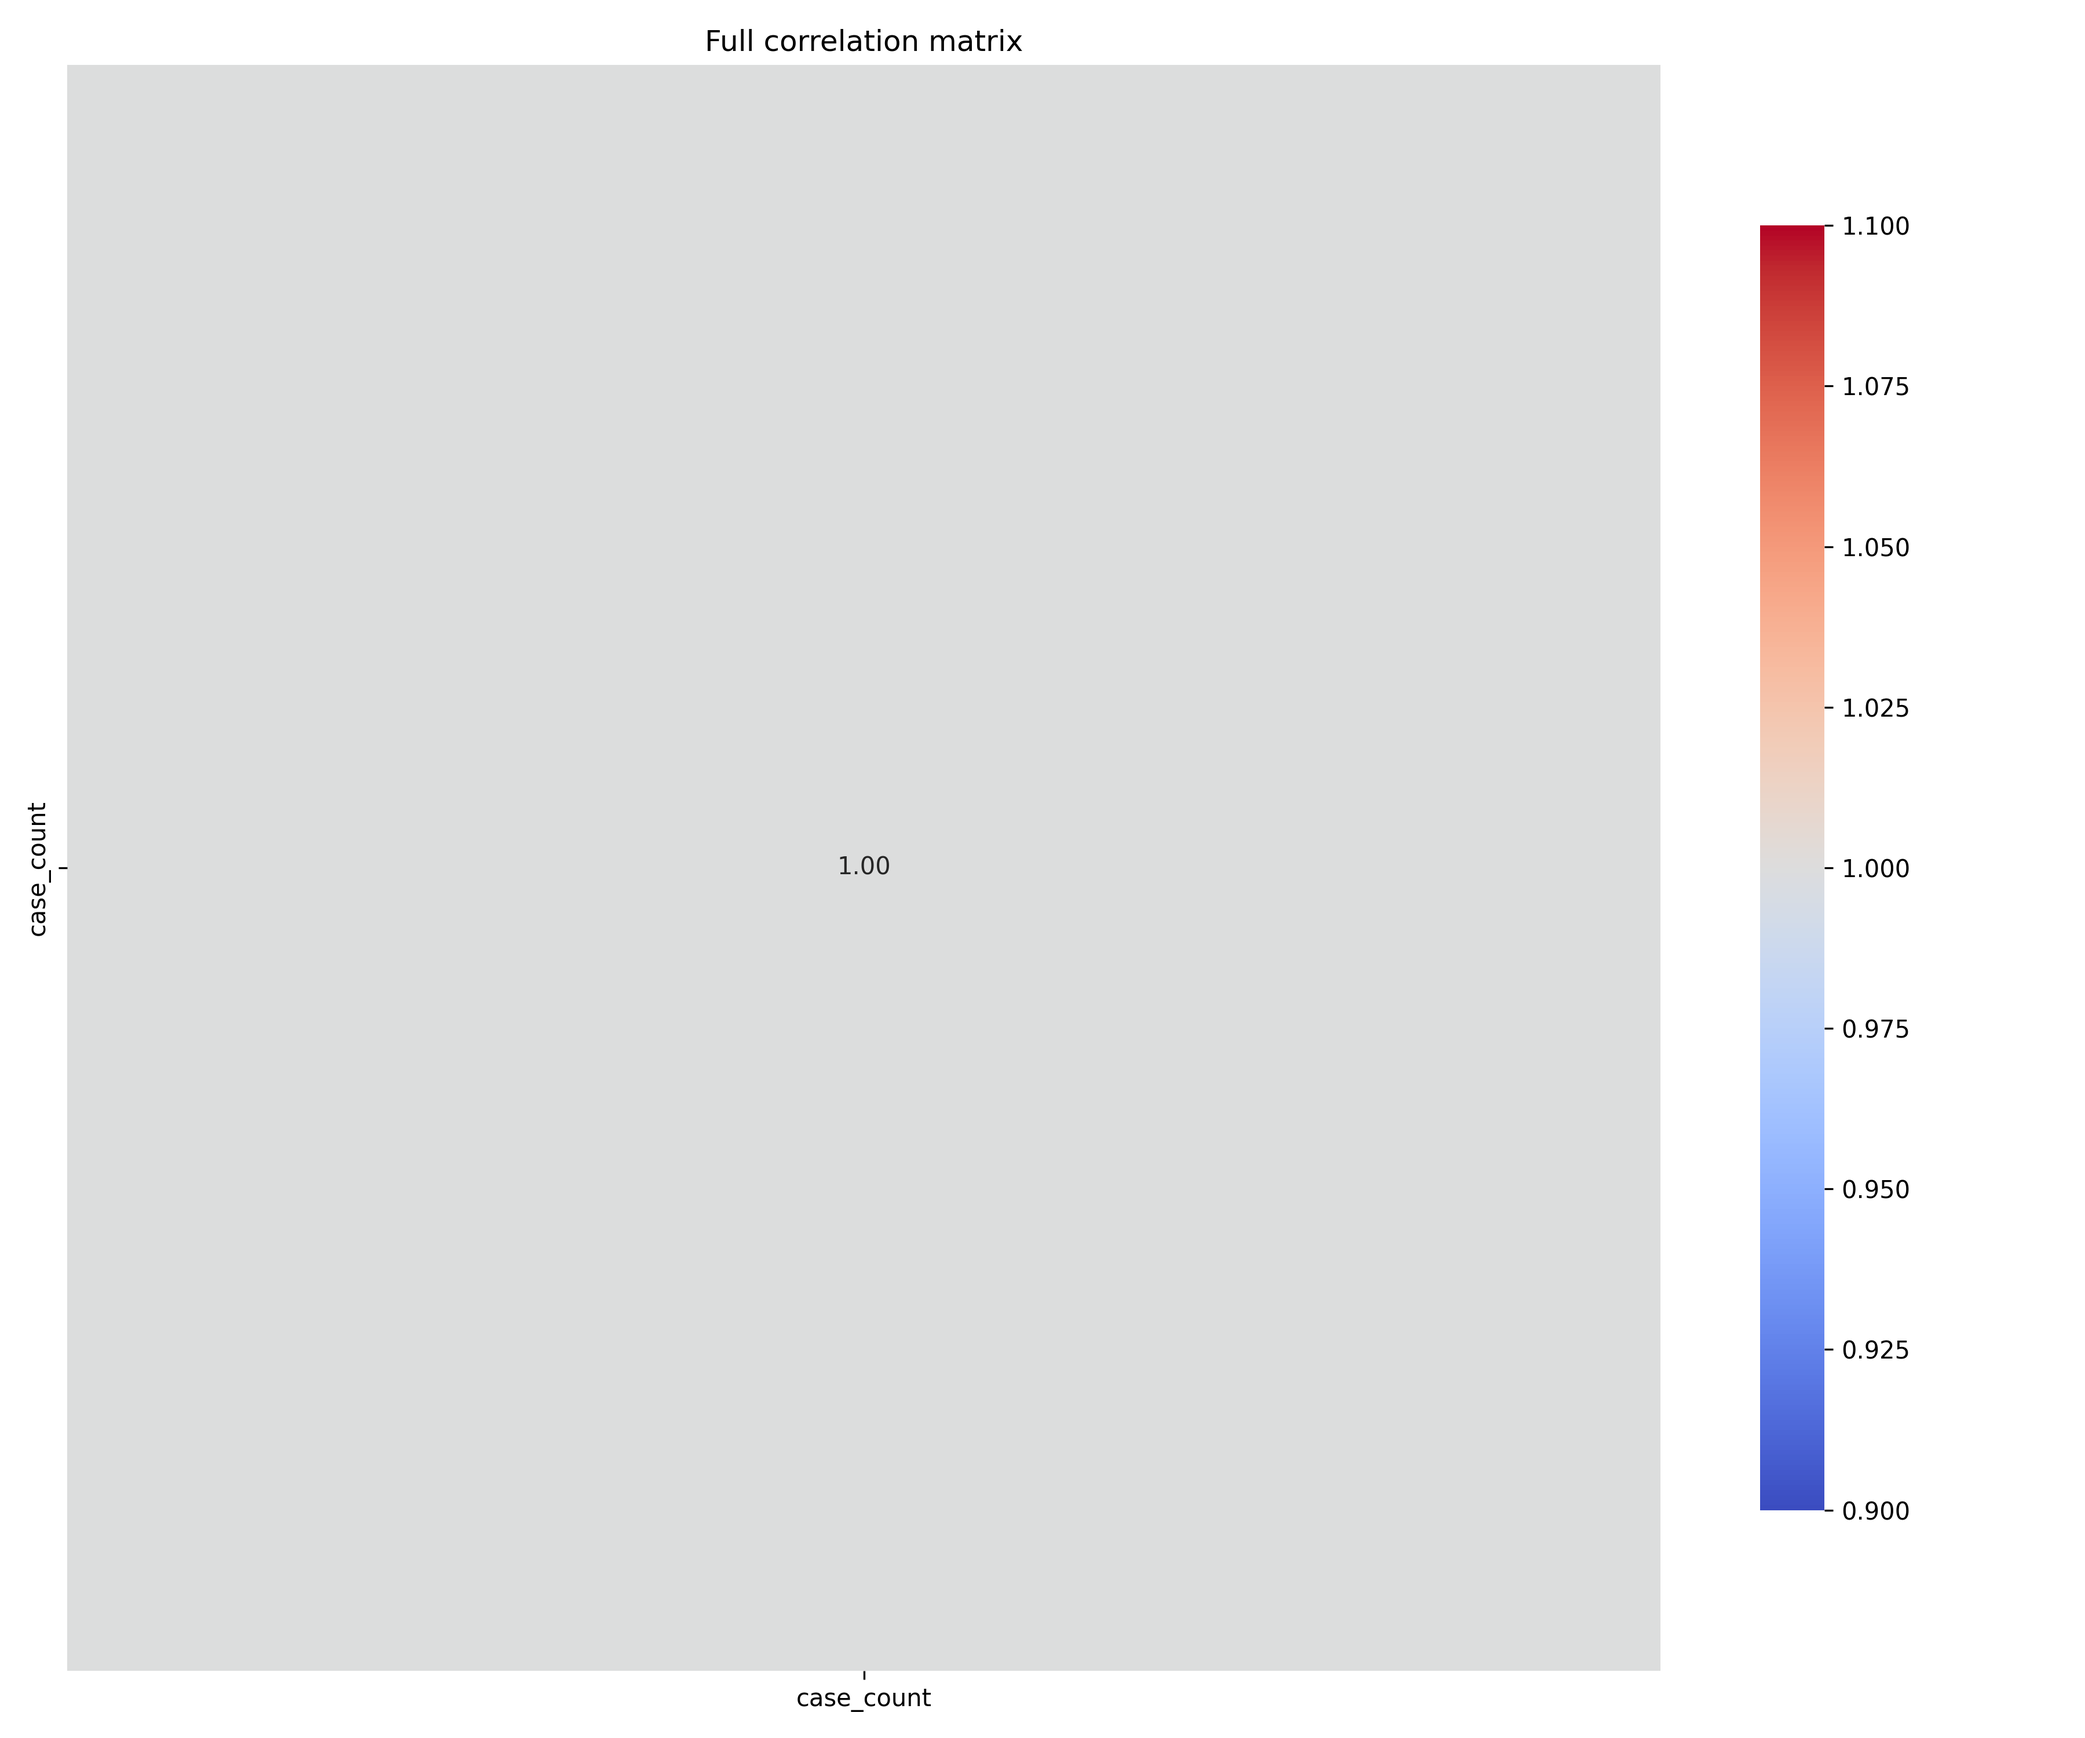
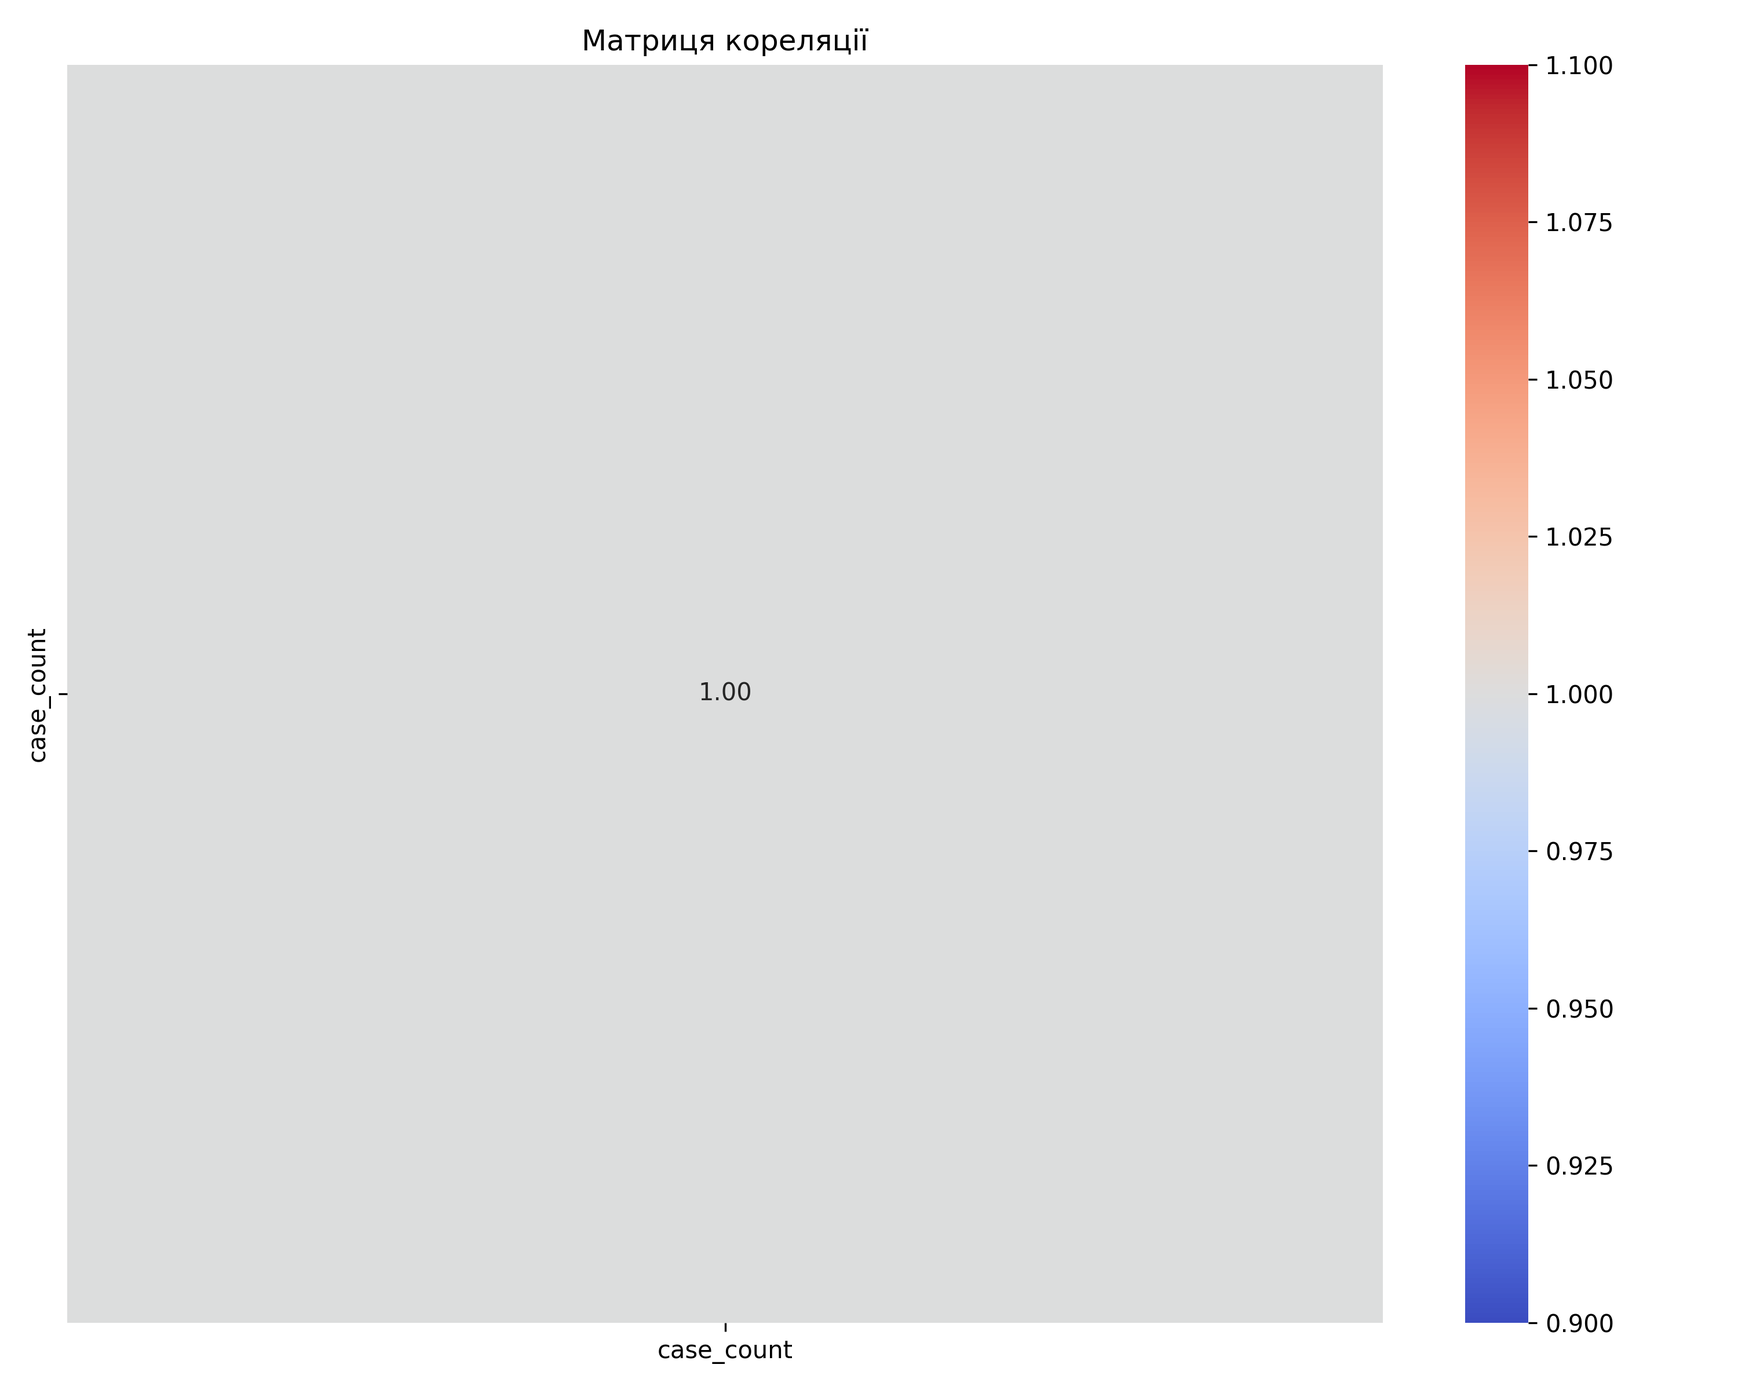
Use full-matrix heatmap per user example; print head and numeric columns

Changed region(s): [[0.0, 0.0, 0.806, 1.0], [0.837, 0.0312, 0.93, 0.9688], [0.403, 0.4688, 0.434, 0.5]]

diff --git a/plot_heatmap.py b/plot_heatmap.py
@@ -4,81 +4,40 @@ import seaborn as sns
 import matplotlib.pyplot as plt
 from pathlib import Path
 
-# Вкажіть тут свої "сміттєві" колонки, які потрібно видалити перед аналізом
-GARBAGE_COLS = ['date', 'city_name', 'id_patient']
-THRESHOLD = 0.95
-
+# Відформатовано згідно вашого прикладу: вивід head, вибір числових колонок, повна матриця
 data_path = Path('final_data.csv')
 if not data_path.exists():
     raise FileNotFoundError('final_data.csv not found. Please provide the dataset in the repository root.')
 
 df = pd.read_csv(data_path)
 
-# Видаляємо вказані сміттєві колонки, якщо вони є
+# Видаляємо можливі "сміттєві" колонки
+GARBAGE_COLS = ['date', 'city_name', 'id_patient']
 cols_to_drop = [c for c in GARBAGE_COLS if c in df.columns]
 if cols_to_drop:
     df = df.drop(columns=cols_to_drop)
 
-# Залишаємо тільки числові колонки
-df_num = df.select_dtypes(include=[np.number])
-if df_num.shape[1] == 0:
-    raise ValueError('No numeric columns found in final_data.csv to compute correlation.')
+# 1. Переконаємося, що df містить дані
+print('Перші 5 рядків датасету:')
+print(df.head().to_string())
 
-# Обчислюємо матрицю кореляції
-corr = df_num.corr()
+# 2. Вибираємо тільки числові колонки
+numeric_df = df.select_dtypes(include=['float64', 'int64'])
 
-# Шукаємо пари колонок з |corr| >= THRESHOLD (без діагоналі)
-corr_abs = corr.abs()
-pairs = []
-cols_in_pairs = set()
-for i in range(len(corr.columns)):
-    for j in range(i + 1, len(corr.columns)):
-        if corr_abs.iat[i, j] >= THRESHOLD:
-            a = corr.columns[i]
-            b = corr.columns[j]
-            pairs.append((a, b, corr.iat[i, j]))
-            cols_in_pairs.update([a, b])
+# 3. Перевірка колонок
+print('Колонки, які будуть на графіку:', list(numeric_df.columns))
 
+# 4. Матриця кореляції для всіх числових колонок
+correlation_matrix = numeric_df.corr()
+
+# 5. Малюємо та зберігаємо повну матрицю
 plt.figure(figsize=(10, 8))
-if len(cols_in_pairs) >= 2:
-    filtered_corr = corr.loc[sorted(cols_in_pairs), sorted(cols_in_pairs)]
-    sns.heatmap(filtered_corr, annot=True, cmap='coolwarm', fmt='.2f', square=True, cbar_kws={'shrink': 0.8})
-    plt.title(f'Correlation heatmap (pairs with |corr| >= {THRESHOLD})')
-elif len(cols_in_pairs) == 1:
-    # Якщо лише одна колонка входить у сильні пари — додатково візьмемо її
-    # топ-N колонок за модулем кореляції, щоб уникнути одиночної точки 1.0
-    target = list(cols_in_pairs)[0]
-    SECONDARY = 0.5
-    # Вибираємо колонки з |corr| >= SECONDARY або топ-3 за модулем
-    others = corr_abs[target].drop(target)
-    selected = list(others[others >= SECONDARY].index)
-    if len(selected) < 1:
-        selected = list(others.abs().sort_values(ascending=False).head(3).index)
-    selected = sorted(set([target] + selected))
-    filtered_corr = corr.loc[selected, selected]
-    sns.heatmap(filtered_corr, annot=True, cmap='coolwarm', fmt='.2f', square=True, cbar_kws={'shrink': 0.8})
-    plt.title(f'Correlation heatmap for {target} (expanded selection)')
-else:
-    # Якщо сильних пар немає — показуємо повну матрицю,
-    # але замаскуємо значення з модулем меншим за поріг і не підписуватимемо їх.
-    mask = corr_abs < THRESHOLD
-    annot = corr.round(2).astype(str)
-    annot = annot.where(~mask, other='')
-    sns.heatmap(corr, annot=annot, cmap='coolwarm', fmt='', square=True, cbar_kws={'shrink': 0.8}, mask=mask)
-    plt.title(f'Correlation heatmap (values with |corr| < {THRESHOLD} hidden)')
+sns.heatmap(correlation_matrix, annot=True, cmap='coolwarm', fmt=".2f")
+plt.title('Матриця кореляції')
 plt.tight_layout()
 
 out_dir = Path('outputs')
 out_dir.mkdir(exist_ok=True)
-out = out_dir / 'correlation_heatmap.png'
-plt.savefig(out, dpi=300)
-print(f'Heatmap saved: {out.resolve()}')
-
-# Зберігаємо також повну матрицю кореляцій без маскування
-plt.figure(figsize=(12, 10))
-sns.heatmap(corr, annot=True, cmap='coolwarm', fmt='.2f', square=False, cbar_kws={'shrink': 0.8})
-plt.title('Full correlation matrix')
-plt.tight_layout()
 out_full = out_dir / 'correlation_heatmap_full.png'
 plt.savefig(out_full, dpi=300)
 print(f'Full heatmap saved: {out_full.resolve()}')
